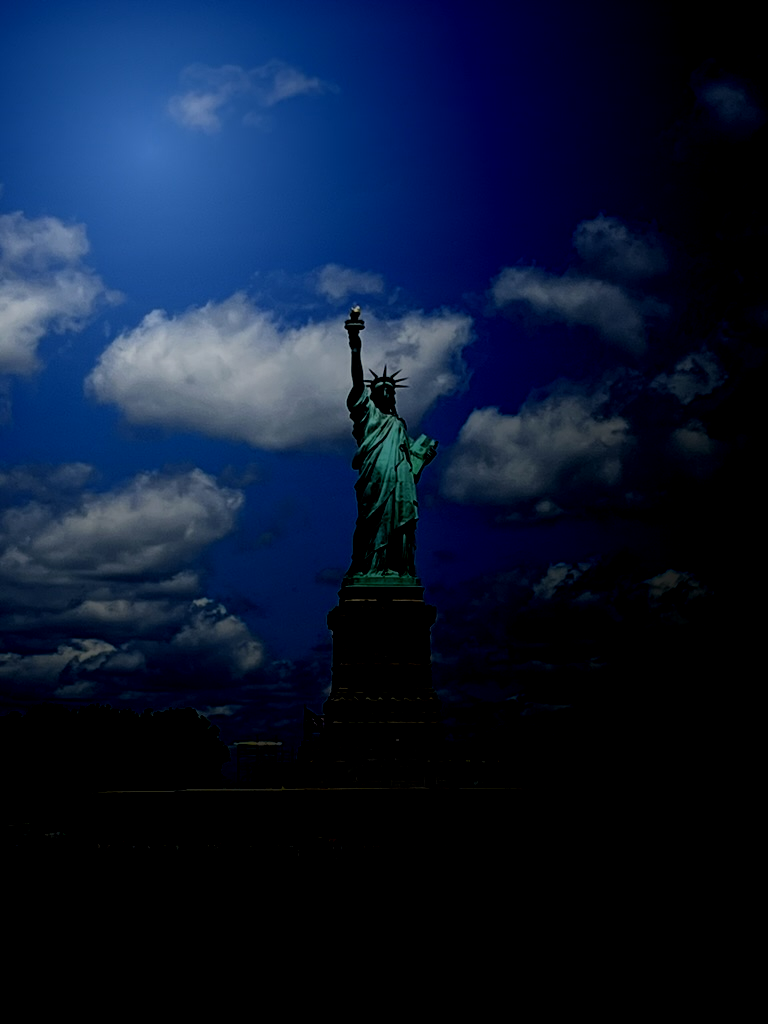
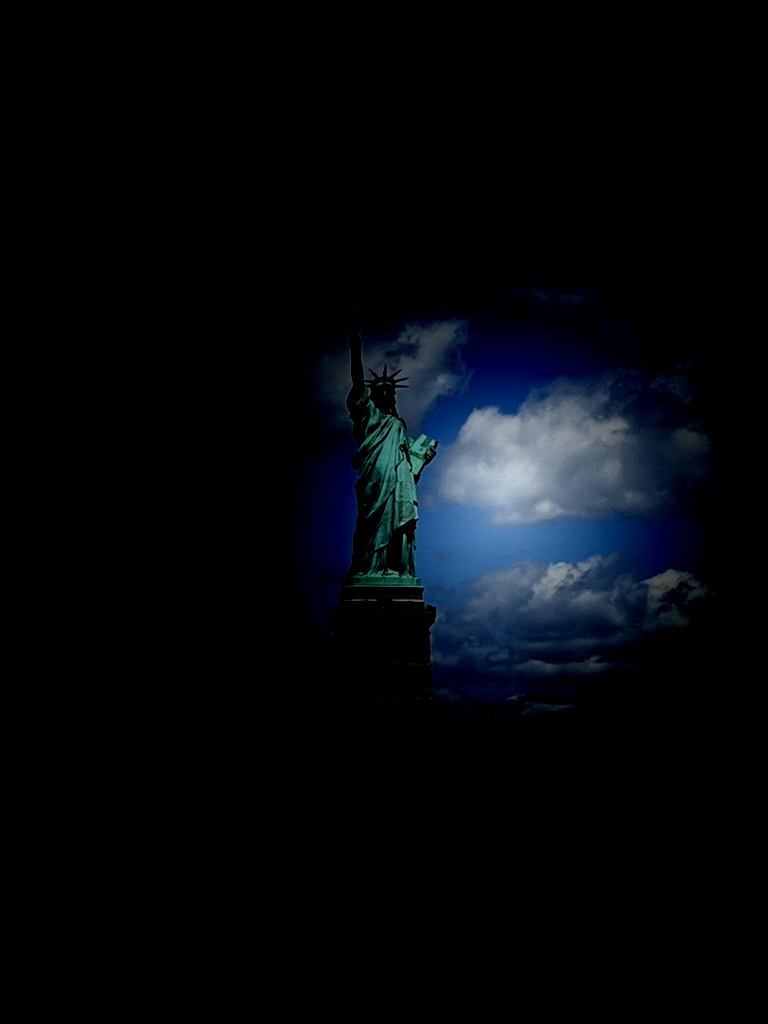
Finished

diff --git a/main.py b/main.py
@@ -1,5 +1,7 @@
+from PIL import ImageDraw
 from PIL import Image
 import math
+import random
 
 def distance_halo(image_name, targetX, targetY, modifyer):
     image = Image.open(image_name)
@@ -12,10 +14,36 @@ def distance_halo(image_name, targetX, targetY, modifyer):
             blue = pixels[x,y][1]
             green = pixels[x,y][2]
             #calculates distane and therfore color for each color
-            darkness_mod =  int(math.sqrt( (targetX - x)**2 + (targetY - y)**2 ) / modifyer)
+            darkness_mod =  int((math.sqrt((targetX - x)**2 + (targetY - y)**2 )) / modifyer)
             pixels[x,y] = (red - darkness_mod, blue - darkness_mod, green - darkness_mod)
 
     image.save(image_name[:-4] + "_distance_halo.png")
 
-distance_halo("statue.png", 150, 150, 3)
+
+
+
+
+def pointillism(image_name):
+    image = Image.open(image_name)
+
+    pixels = image.load()
+    canvas = Image.new("RGB",(image.size[0],image.size[1]), "white")
+
+    for i in range(120000):
+            x = random.randint(1, image.width-1)
+            y = random.randint(1, image.height-1)
+            red = pixels[x,y][0]
+            blue = pixels[x,y][1]
+            green = pixels[x,y][2]
+
+            size = random.randint(5,8)
+            ellipsebox=[(x,y),(x+size,y+size)]
+            draw = ImageDraw.Draw(canvas)
+            draw.ellipse(ellipsebox,fill=(pixels[x,y][0],pixels[x,y][1],pixels[x,y][2]))
+            del draw
+
+
+    canvas.save(image_name[:-4] + "pointillism.png")
+
+pointillism("statue.png")
 
